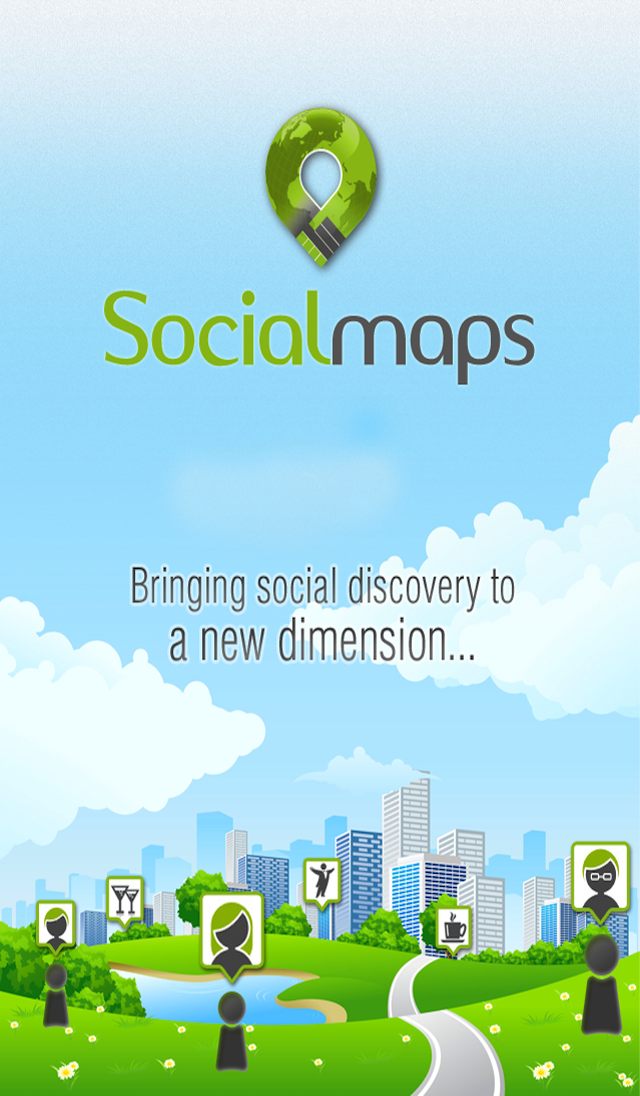
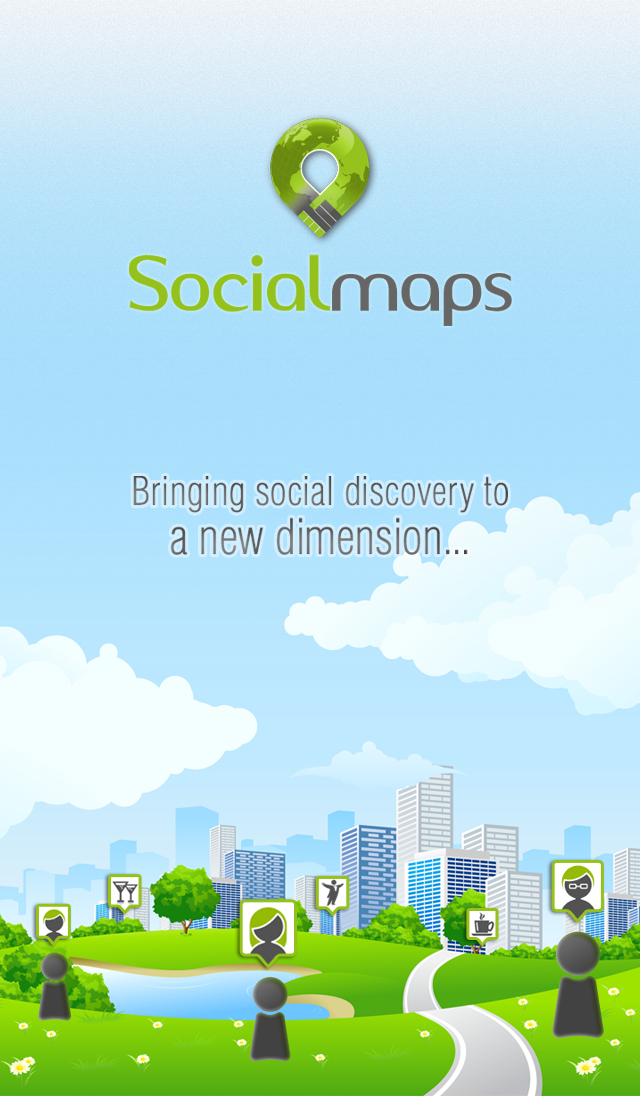
Splash image for iPhone5 added

diff --git a/iphone/SocialMaps/ViewController.m b/iphone/SocialMaps/ViewController.m
@@ -57,11 +57,16 @@ AppDelegate *smAppDelegate;
     }
 	// Do any additional setup after loading the view, typically from a nib.
     progressView.progress = 0.0;
+    
+    if (IS_IPHONE_5) {
+        self.splashImageView.image = [UIImage imageNamed:@"Default-568h@2x.png"];
+    }
 }
 
 - (void)viewDidUnload
 {
     [self setProgressView:nil];
+    [self setSplashImageView:nil];
     [super viewDidUnload];
     // Release any retained subviews of the main view.
     // e.g. self.myOutlet = nil;
@@ -98,6 +103,7 @@ AppDelegate *smAppDelegate;
 
 - (void)dealloc {
     [progressView release];
+    [_splashImageView release];
     [super dealloc];
 }
 

diff --git a/iphone/SocialMaps/Constants.h b/iphone/SocialMaps/Constants.h
@@ -101,6 +101,9 @@ extern float const kNumberRGBBlue;
 // Maximum number of visible annotation
 extern int const MAX_VISIBLE_ANNO;
 
+
+#define IS_IPHONE_5 ( fabs( ( double )[ [ UIScreen mainScreen ] bounds ].size.height - ( double )568 ) < DBL_EPSILON )
+
 /**
  * comment the next line out to disable debug logging
  * when bundling the Application for Production

diff --git a/iphone/SocialMaps/ViewController.h b/iphone/SocialMaps/ViewController.h
@@ -18,6 +18,7 @@
 @property (retain, nonatomic) IBOutlet UIProgressView *progressView;
 @property (nonatomic,retain) IBOutlet UIView *privateBetaView; 
 @property (nonatomic,retain) IBOutlet UITextField *betaPassWord;
+@property (retain, nonatomic) IBOutlet UIImageView *splashImageView;
 
 /**
  * @brief Navigate user to login screen
